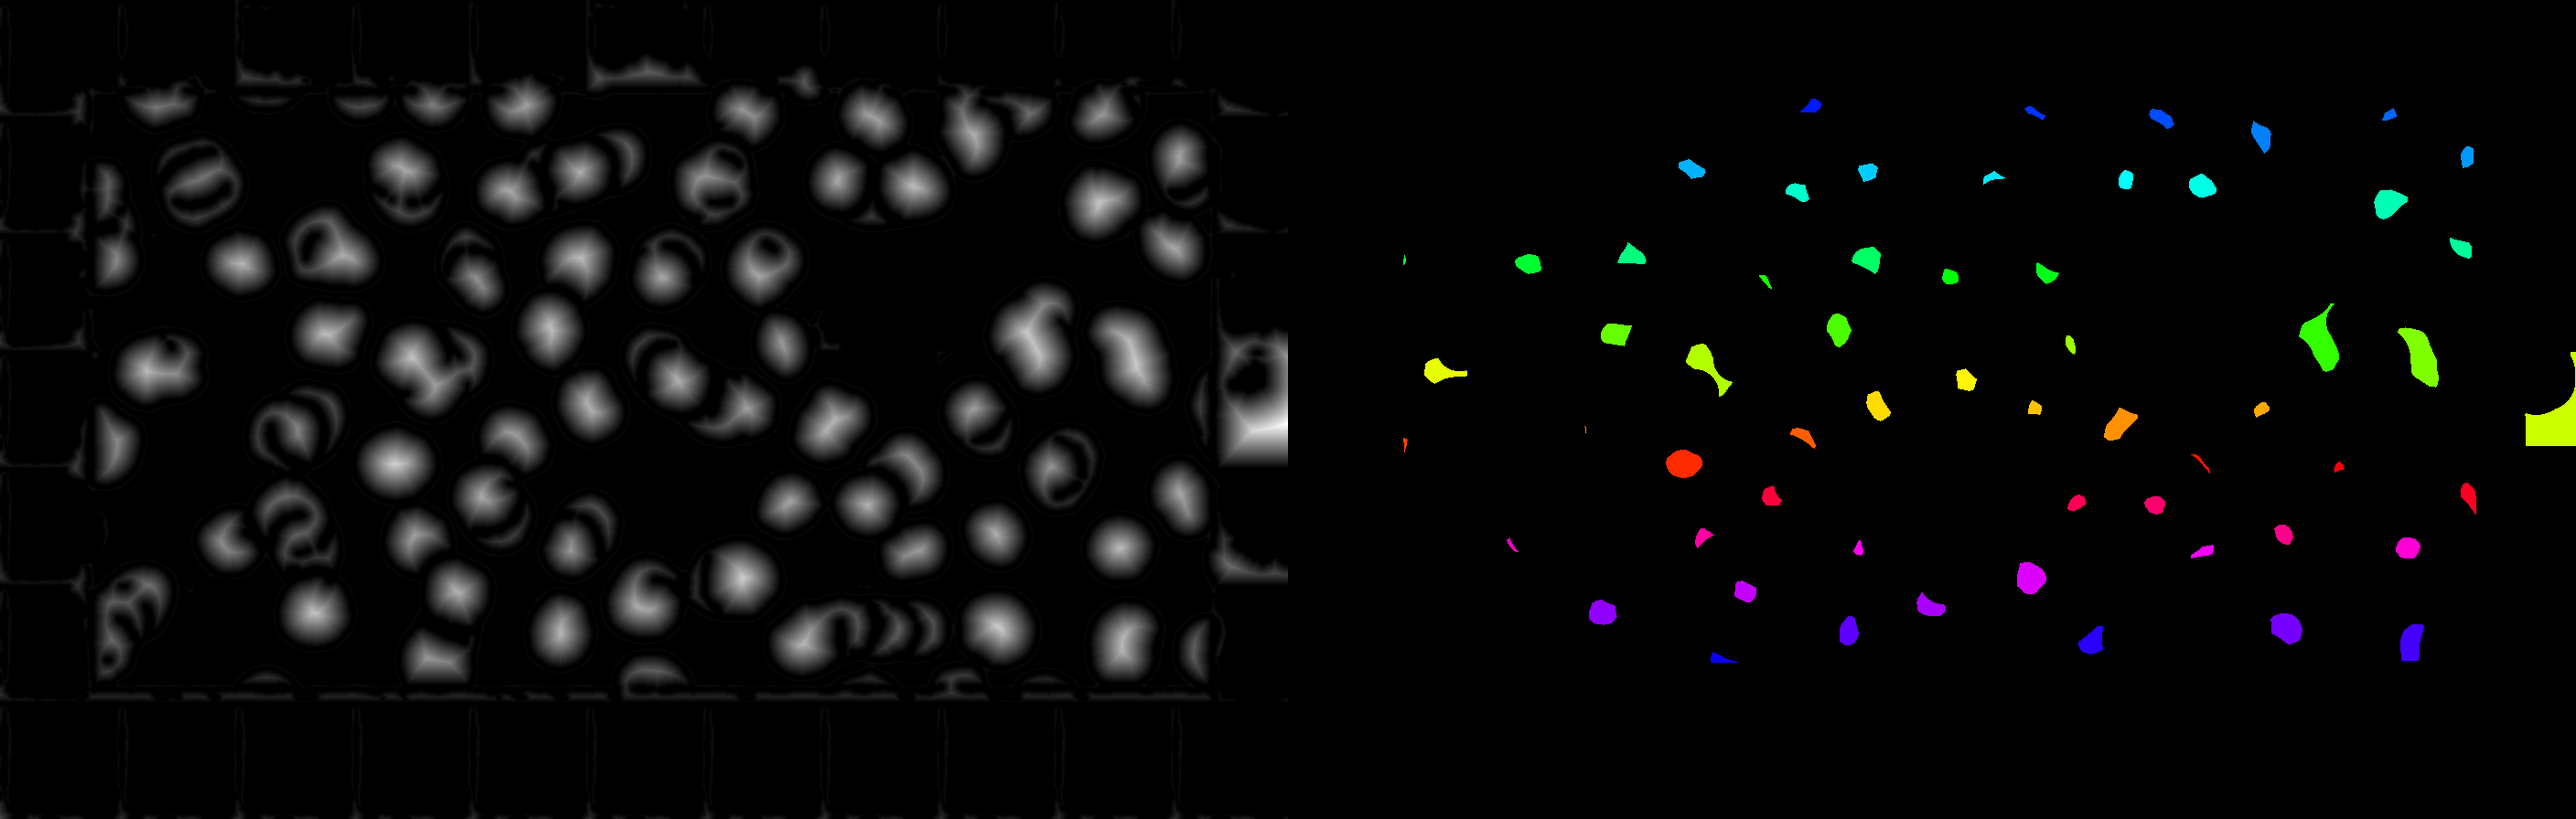
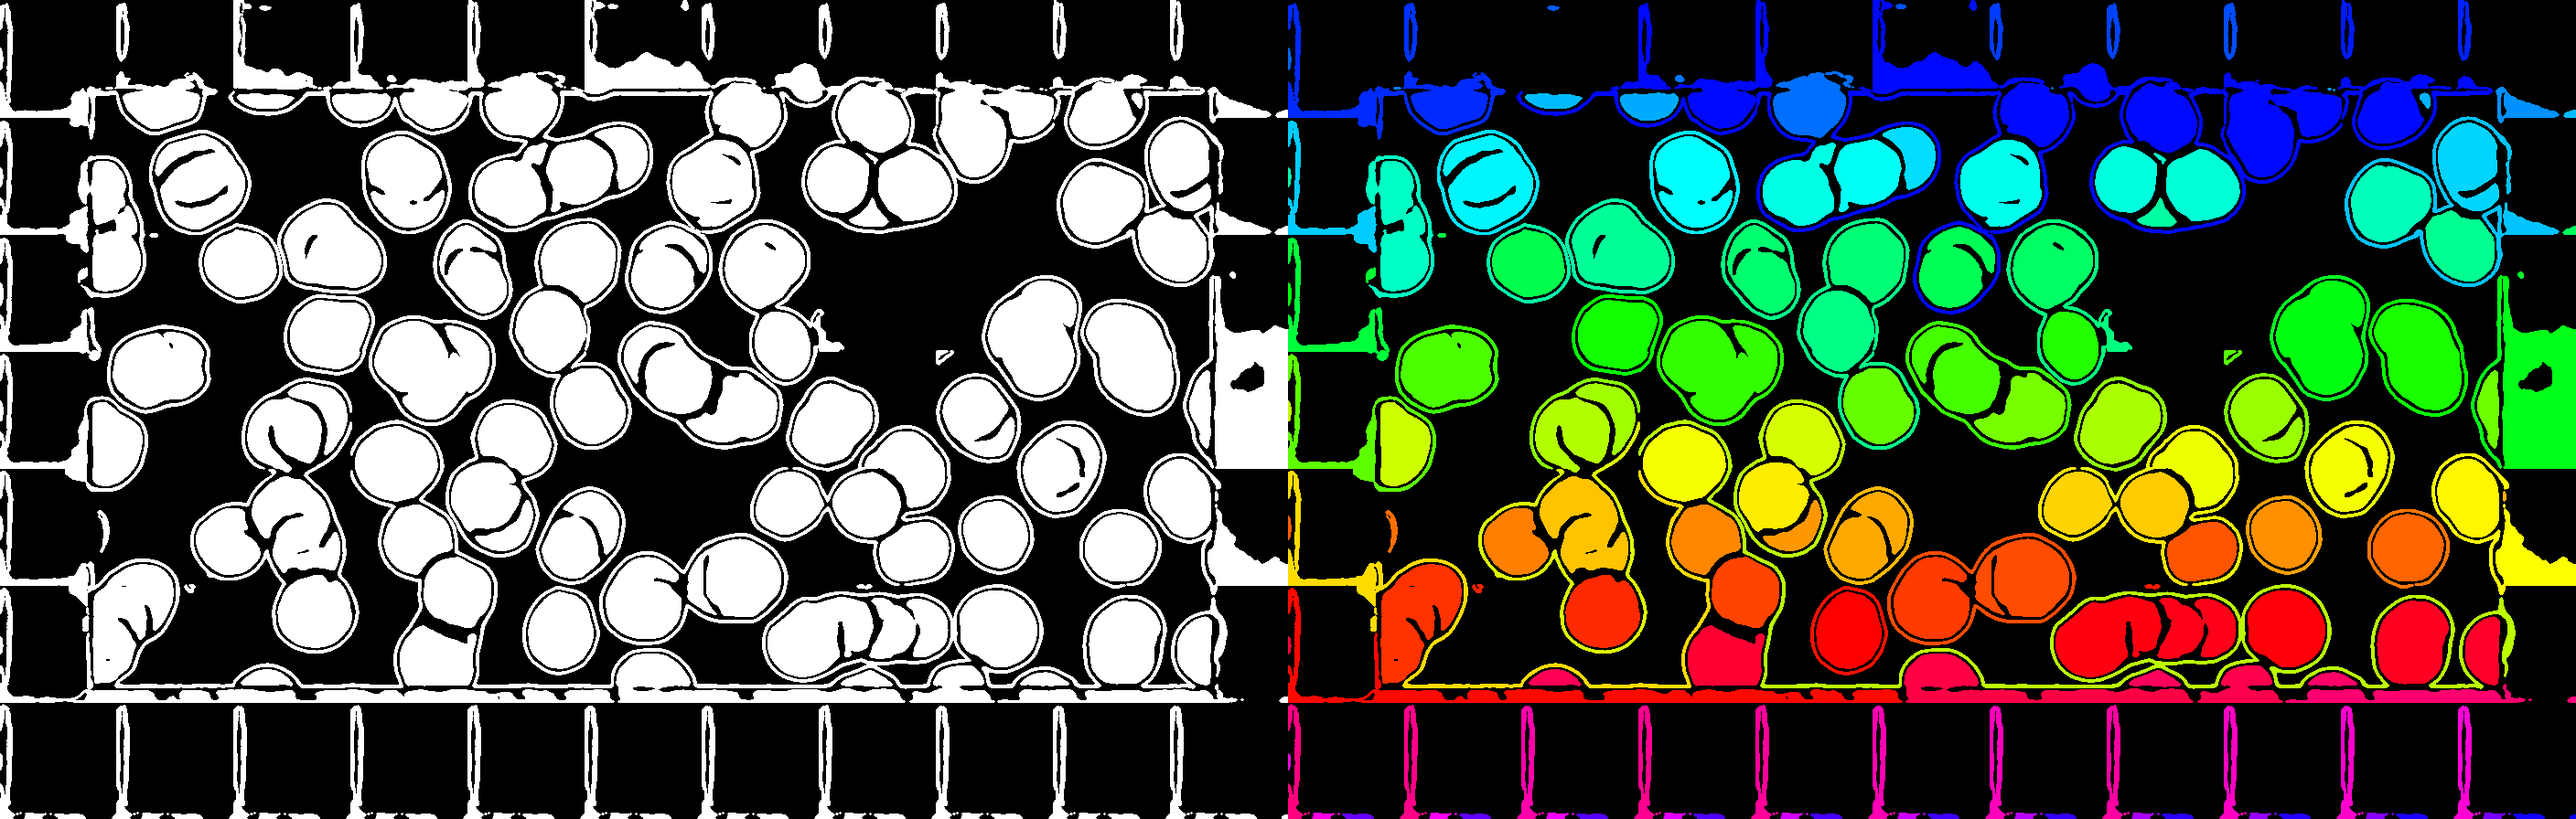
Applied binary dilations on top of distance transform!

diff --git a/src/run.py b/src/run.py
@@ -343,7 +343,7 @@ def distance_transform(img='threshold_edge_mask.png'):
     img = cv2.cvtColor(img, cv2.COLOR_BGR2GRAY)
 
     img = ndimage.distance_transform_edt(img)
-    # img = ndimage.binary_dilation(img)
+    img = ndimage.binary_dilation(img)
 
     # saving image after Component Labeling
     plt.imsave('output/distance_transform.png', img, cmap='gray')
@@ -353,7 +353,7 @@ def distance_transform(img='threshold_edge_mask.png'):
 if __name__ == '__main__':
     # train('mse_unsupervised')
     # evaluate(model_name='mse')
-    predict(model_name='mse', img='Im037_0.jpg')
+    # predict(model_name='mse', img='Im037_0.jpg')
     threshold('mask.png')
     threshold('edge.png')
     threshold('edge_mask.png')
